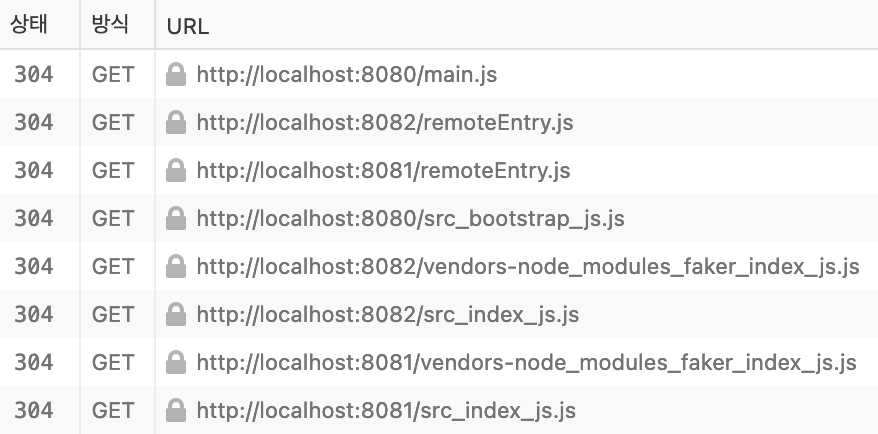
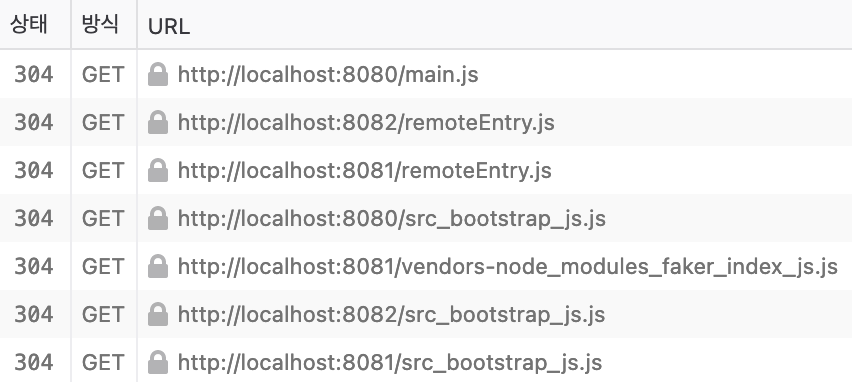
add shared module

diff --git a/webpack-01/products/src/bootstrap.js b/webpack-01/products/src/bootstrap.js
@@ -1,0 +1,23 @@
+import faker from 'faker';
+
+function mount(el) {
+  const products = [];
+
+  for (let i = 0; i < 5; i++) {
+    products.push(faker.commerce.productName());
+  }
+
+  const html = '<ul>' +
+    products.map(product => `<li>${product}</li>`).join('') +
+    '</ul>';
+  el.innerHTML = html;
+}
+
+if (process.env.NODE_ENV === 'development') {
+  const el = document.querySelector('#dev-products');
+  if (el) {
+    mount(el);
+  }
+}
+
+export { mount };

diff --git a/webpack-01/container/src/bootstrap.js b/webpack-01/container/src/bootstrap.js
@@ -1,4 +1,7 @@
-import 'cartApp/CartShow';
-import 'productsApp/ProductsIndex';
+import { mount as mountCart } from 'cartApp/CartShow';
+import { mount as mountProducts } from 'productsApp/ProductsIndex';
 
 console.log('Container!');
+
+mountCart(document.querySelector('#cart-holder'));
+mountProducts(document.querySelector('#products-holder'));

diff --git a/webpack-01/cart/src/bootstrap.js b/webpack-01/cart/src/bootstrap.js
@@ -1,0 +1,15 @@
+import faker from 'faker';
+
+const mount = (el) => {
+  const html = `<div>You have ${faker.random.number()} items in your cart</div`;
+  el.innerHTML = html;
+};
+
+if (process.env.NODE_ENV === 'development') {
+  const el = document.querySelector('#dev-cart');
+  if (el) {
+    mount(el);
+  }
+}
+
+export { mount };

diff --git a/webpack-01/products/src/index.js b/webpack-01/products/src/index.js
@@ -1,12 +1,1 @@
-import faker from 'faker';
-
-const products = [];
-
-for (let i = 0; i < 5; i++) {
-  products.push(faker.commerce.productName());
-}
-
-const html = '<ul>' +
-  products.map(product => `<li>${product}</li>`).join('') +
-  '</ul>';
-document.querySelector('#dev-products').innerHTML = html;
+import('./bootstrap');

diff --git a/webpack-01/products/webpack.config.js b/webpack-01/products/webpack.config.js
@@ -11,8 +11,9 @@ module.exports = {
       name: 'products',
       filename: 'remoteEntry.js',
       exposes: {
-        './ProductsIndex': './src/index',
+        './ProductsIndex': './src/bootstrap',
       },
+      shared: ['faker'],
     }),
     new HtmlWebpackPlugin({
       template: './public/index.html',

diff --git a/webpack-01/cart/webpack.config.js b/webpack-01/cart/webpack.config.js
@@ -11,8 +11,9 @@ module.exports = {
       name: 'cart',
       filename: 'remoteEntry.js',
       exposes: {
-        './CartShow': './src/index',
+        './CartShow': './src/bootstrap',
       },
+      shared: ['faker'],
     }),
     new HtmlWebpackPlugin({
       template: './public/index.html',

diff --git a/webpack-01/container/public/index.html b/webpack-01/container/public/index.html
@@ -2,7 +2,7 @@
 <html>
   <head></head>
   <body>
-    <div id="dev-products"></div>
-    <div id="dev-cart"></div>
+    <div id="products-holder"></div>
+    <div id="cart-holder"></div>
   </body>
 </html>

diff --git a/webpack-01/cart/src/index.js b/webpack-01/cart/src/index.js
@@ -1,4 +1,1 @@
-import faker from 'faker';
-
-const html = `<div>You have ${faker.random.number()} items in your cart</div`;
-document.querySelector('#dev-cart').innerHTML = html;
+import('./bootstrap');
